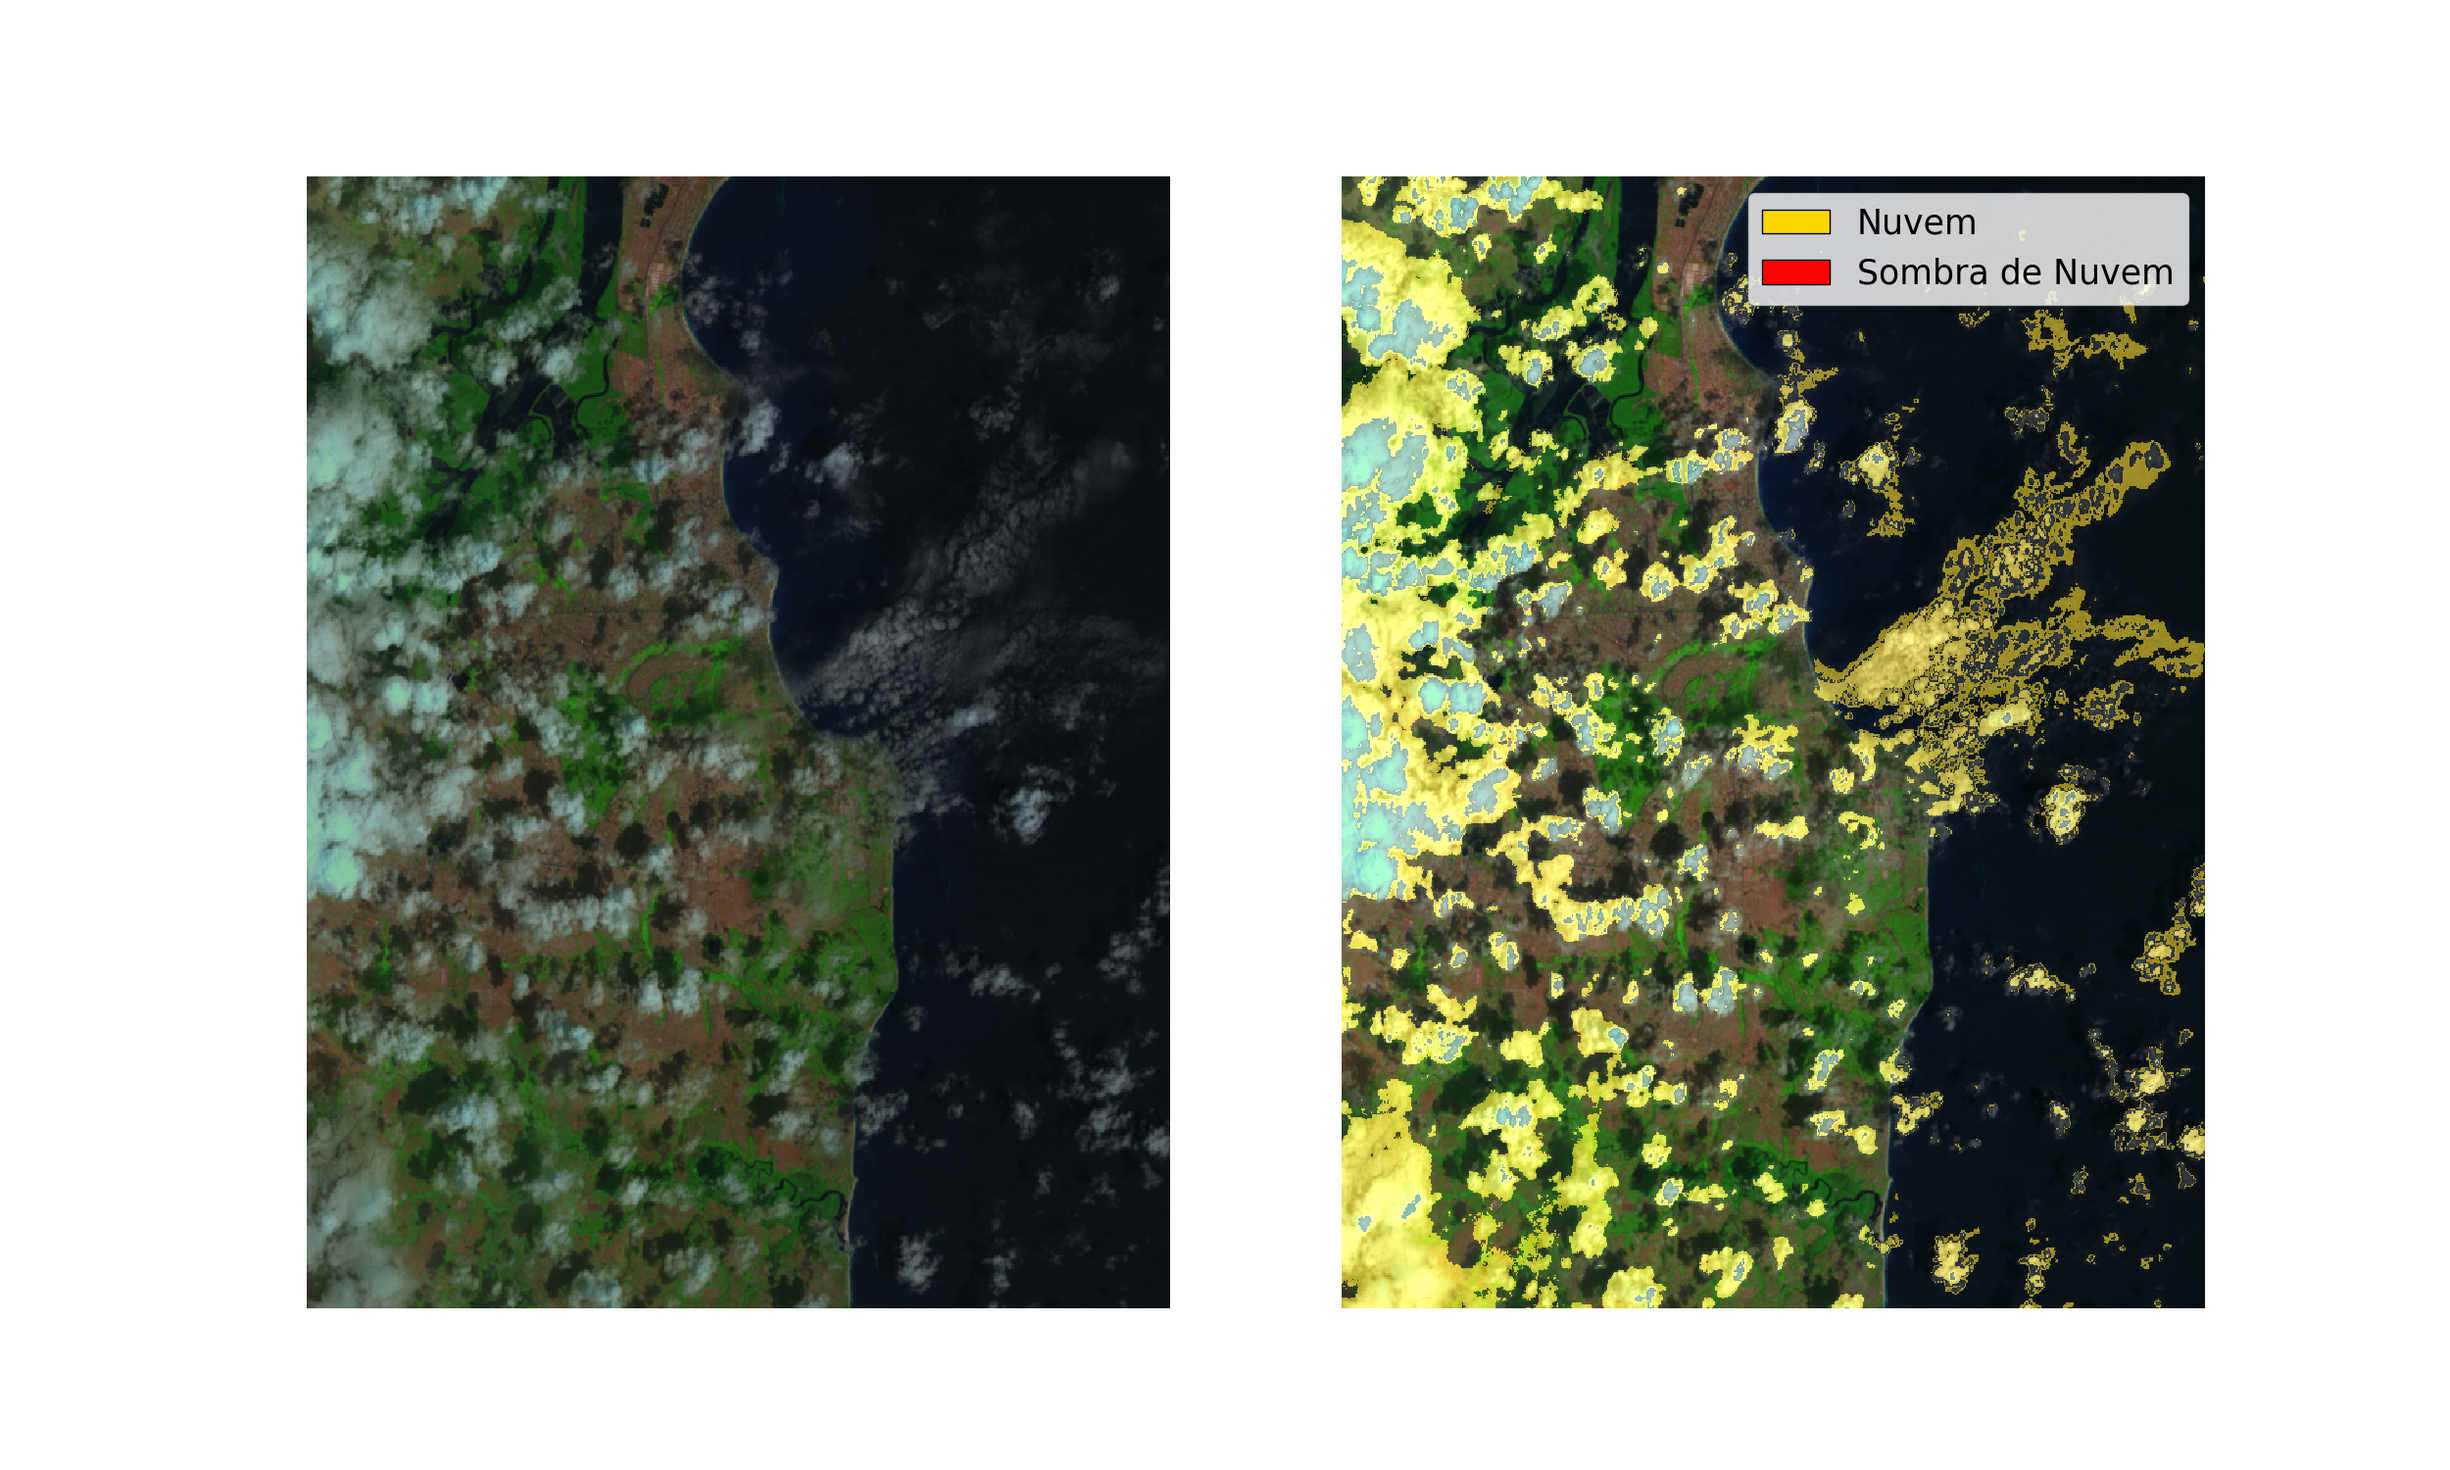
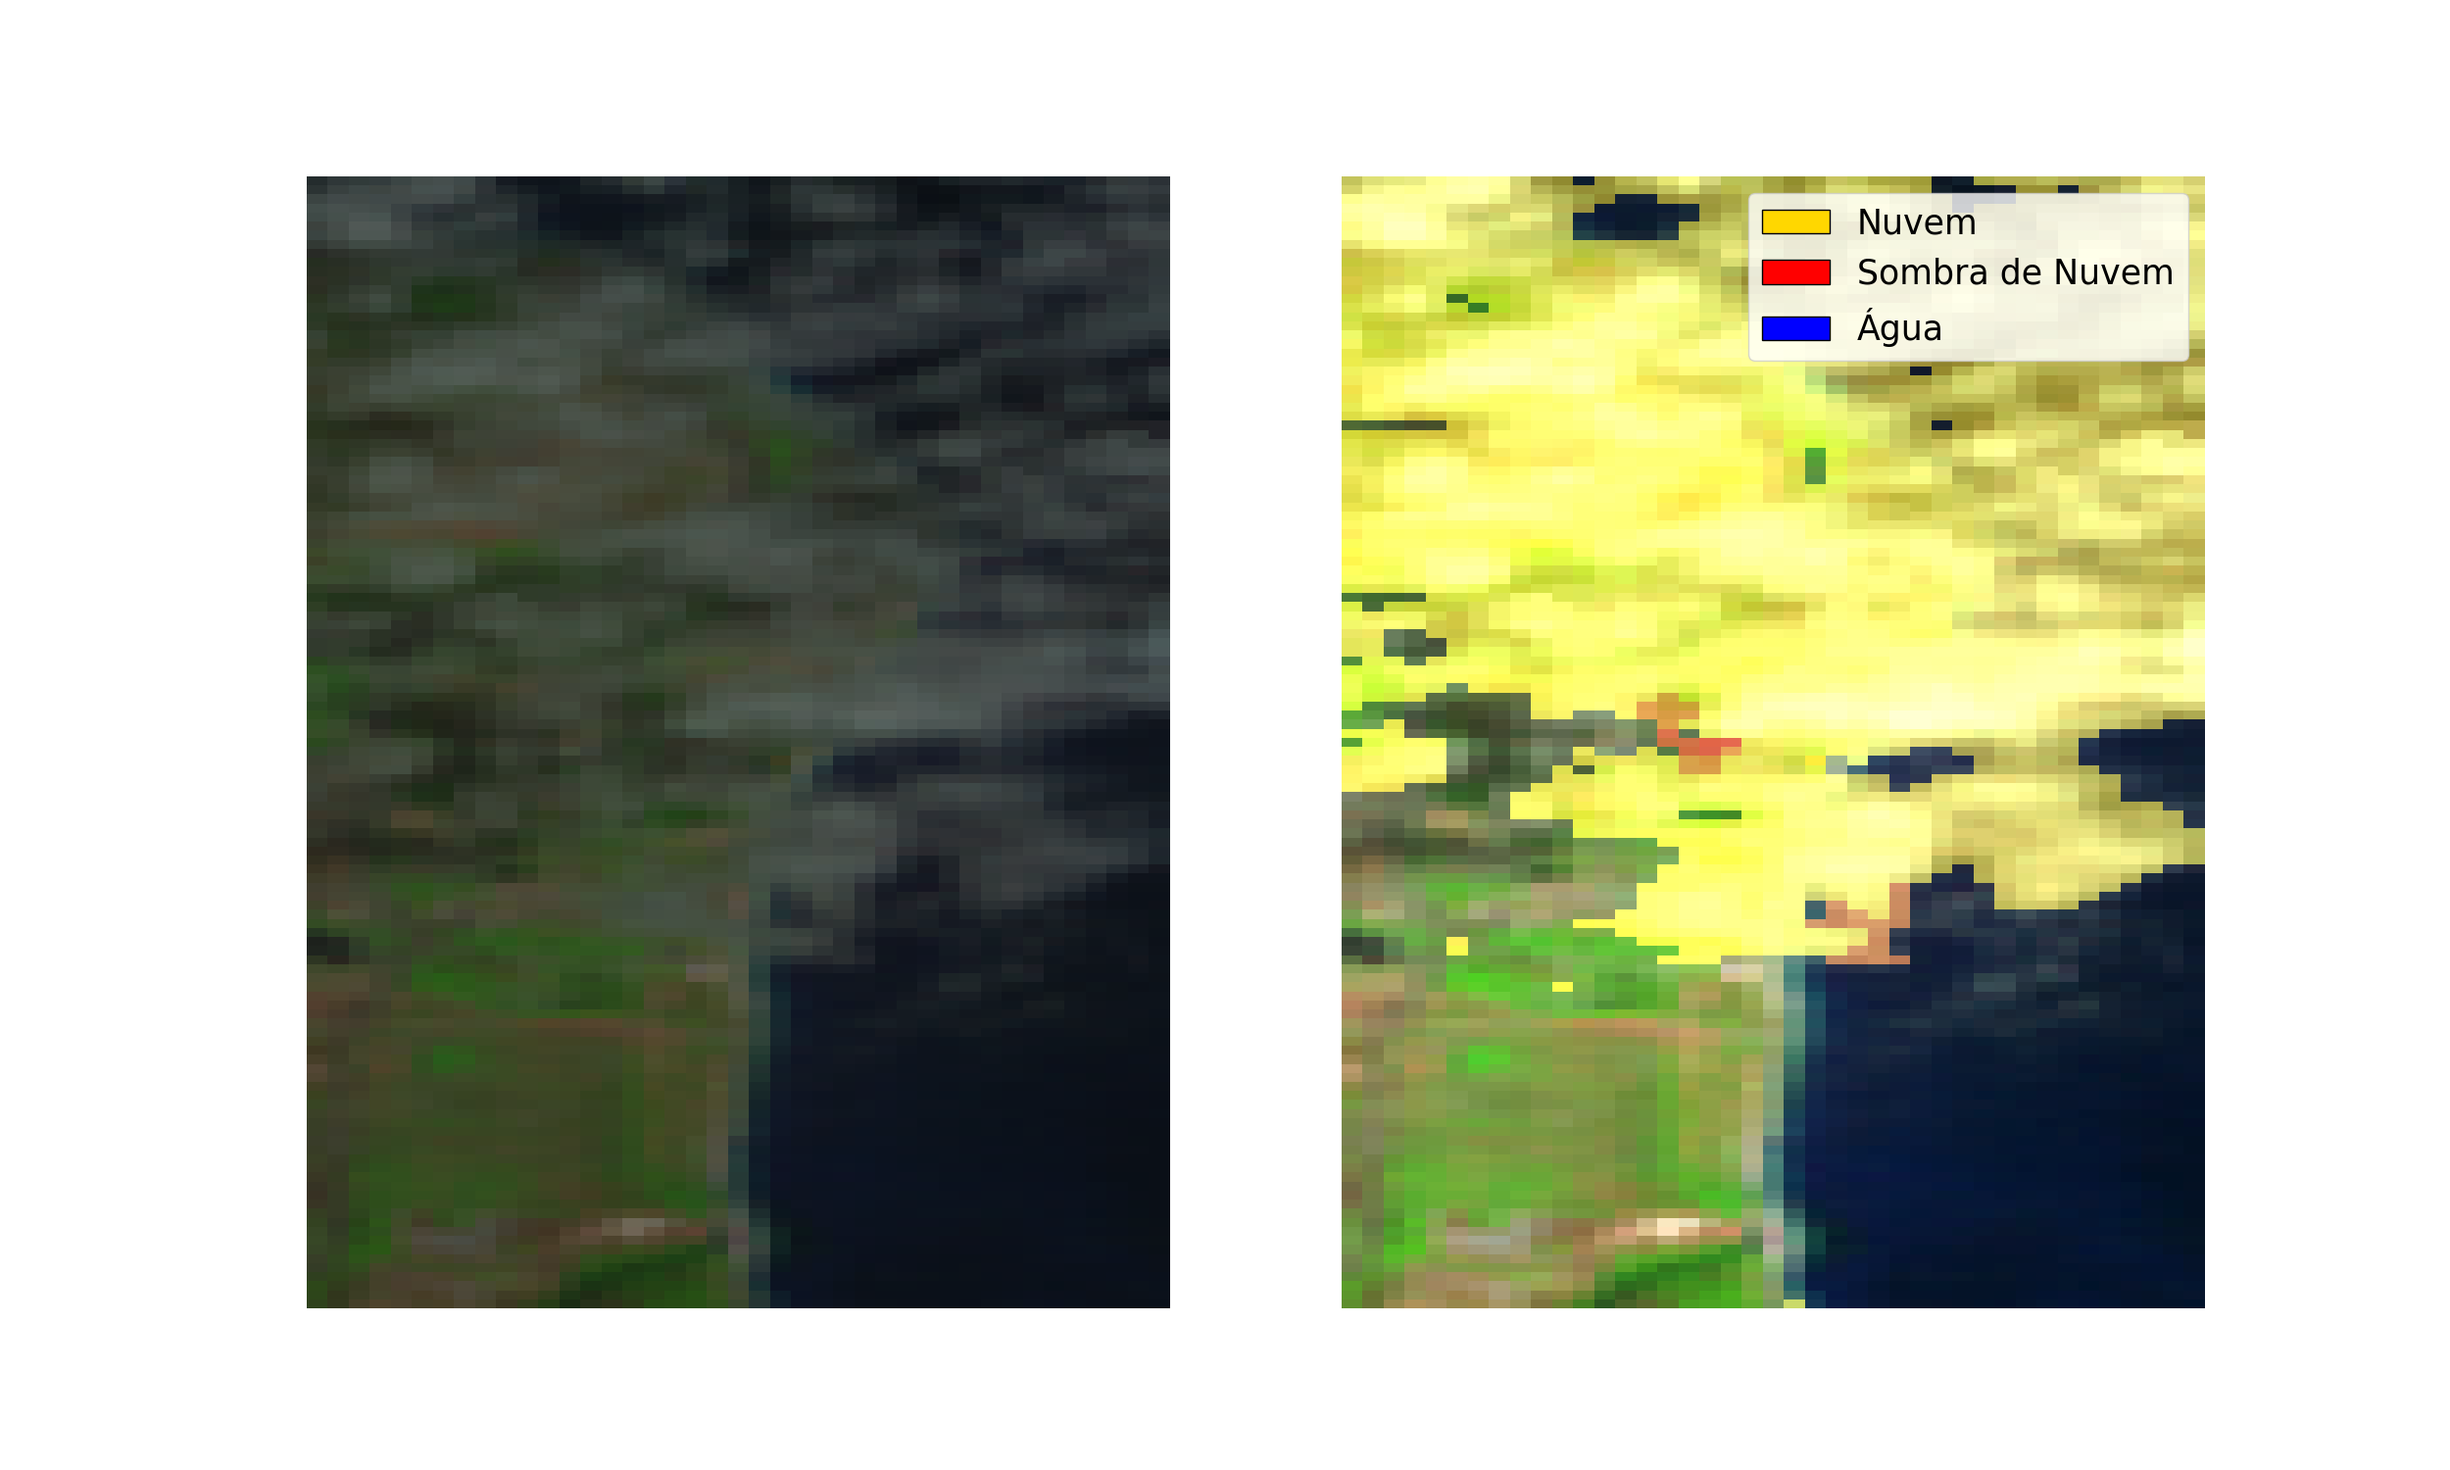
Adjust thresholds

diff --git a/main.py b/main.py
@@ -471,7 +471,7 @@ class Fmask:
         flood_fill_b4 = self.flood_fill_transformation(b4)        
         # PCSL(Potential Cloud Shadow Layer) test
 
-        return (flood_fill_b4 - b4 > - 0.18) & np.logical_not(water_test)
+        return (flood_fill_b4 - b4 > -0.22) & np.logical_not(water_test)
         # fig = plt.figure(figsize=(25, 15))
         # plt.imshow(((flood_fill_b4 - b4) < 50) & np.logical_not(water_test), cmap='gray')
         # plt.title("Flood fill")
@@ -534,10 +534,8 @@ class Fmask:
     def separar_componentes(self, mask):
         """
         Separa uma máscara binária em várias máscaras, cada uma contendo um componente conectado.
-
         Args:
         - mask (np.ndarray): Máscara binária de entrada.
-
         Returns:
         - list of np.ndarray: Lista de máscaras binárias, cada uma contendo um componente conectado.
         """
@@ -547,38 +545,30 @@ class Fmask:
         for i in range(1, num_features + 1):
             componente_mask = (labeled_mask == i).astype(np.uint8)
             masks_individuais.append(componente_mask)
-            # plt.imshow(componente_mask)
-            # plt.show()
 
         return masks_individuais
 
-    def calcular_direcao_sombra(self, sza, saa, vza, vaa):
+    def calcular_direcao_sombra(self, sza, saa):
         """
-        Calcula a direção da sombra para cada pixel.
-
+        Calcula a direção da sombra com base nos ângulos solares.
         Args:
         - sza (np.ndarray): Mapa do ângulo zenital do sol em radianos.
         - saa (np.ndarray): Mapa do ângulo azimutal do sol em radianos.
-        - vza (np.ndarray): Mapa do ângulo zenital de visualização em radianos.
-        - vaa (np.ndarray): Mapa do ângulo azimutal de visualização em radianos.
-
         Returns:
         - np.ndarray: Matriz de direções da sombra com shape (altura, largura, 2).
         """
-        direcao_x = np.tan(vza) * np.sin(vaa - saa)
-        direcao_y = np.tan(vza) * np.cos(vaa - saa)
+        direcao_x = -np.sin(saa)
+        direcao_y = -np.cos(saa)
         return np.stack([direcao_x, direcao_y], axis=-1)
 
     def projetar_sombra(self, nuvem, direcao_sombra, distancia_sombra, shape):
         """
         Projeta a sombra da nuvem na imagem.
-
         Args:
         - nuvem (np.ndarray): Máscara binária da nuvem.
         - direcao_sombra (np.ndarray): Matriz de direções da sombra com shape (altura, largura, 2).
         - distancia_sombra (float): Distância da sombra em pixels.
         - shape (tuple): Forma da imagem (altura, largura).
-
         Returns:
         - np.ndarray: Máscara binária da sombra projetada.
         """
@@ -594,32 +584,40 @@ class Fmask:
             if 0 <= y_proj < shape[0] and 0 <= x_proj < shape[1]:
                 projecao_sombra[y_proj, x_proj] = 1
 
-        # plt.imshow(projecao_sombra)
-        # plt.show()
         return projecao_sombra
 
-    def encontrar_correspondencia_intervalo_altura(self, clouds, cloud_shadows, vza_map, vaa_map, saa_map, sza_map, h_cloud_base, h_cloud_top, shape, num_passos=10):
+    def calcular_similaridade(self, projecao_sombra, sombra_real):
+        """
+        Calcula a similaridade entre a projeção da sombra e a sombra real.
+        Args:
+        - projecao_sombra (np.ndarray): Máscara binária da sombra projetada.
+        - sombra_real (np.ndarray): Máscara binária da sombra real.
+        Returns:
+        - float: Similaridade entre a projeção da sombra e a sombra real.
+        """
+        interseccao = np.sum(projecao_sombra & sombra_real)
+        area_projecao = np.sum(projecao_sombra)
+        if area_projecao == 0:
+            return 0
+        return interseccao / area_projecao
+
+    def encontrar_correspondencia_intervalo_altura(self, clouds, cloud_shadows, saa_map, sza_map, h_cloud_base, h_cloud_top, shape, num_passos=10, limiar_similaridade=0.2):
         """
         Encontra a correspondência de sombras de nuvens para um intervalo de alturas.
-
         Args:
         - clouds (list of np.ndarray): Lista de máscaras binárias de nuvens.
         - cloud_shadows (list of np.ndarray): Lista de máscaras binárias de sombras de nuvens.
-        - vza_map (np.ndarray): Mapa do ângulo zenital de visualização.
-        - vaa_map (np.ndarray): Mapa do ângulo azimutal de visualização.
-        - saa_map (np.ndarray): Mapa do ângulo azimutal do sol.
-        - sza_map (np.ndarray): Mapa do ângulo zenital do sol.
+        - saa_map (np.ndarray): Mapa do ângulo azimutal do sol em radianos.
+        - sza_map (np.ndarray): Mapa do ângulo zenital do sol em radianos.
         - h_cloud_base (float): Altura mínima da nuvem em metros.
         - h_cloud_top (float): Altura máxima da nuvem em metros.
         - shape (tuple): Forma das imagens de entrada (altura, largura).
         - num_passos (int): Número de passos para discretizar o intervalo de alturas.
-
+        - limiar_similaridade (float): Limiar de similaridade para correspondência de sombra.
         Returns:
         - np.ndarray: Máscara binária das sombras correspondentes.
         """
         # Converter ângulos para radianos
-        vza_map = np.radians(vza_map)
-        vaa_map = np.radians(vaa_map)
         saa_map = np.radians(saa_map)
         sza_map = np.radians(sza_map)
 
@@ -629,19 +627,41 @@ class Fmask:
         # Alturas para considerar no intervalo
         alturas = np.linspace(h_cloud_base, h_cloud_top, num=num_passos)
 
-        direcao_sombra = self.calcular_direcao_sombra(sza_map, saa_map, vza_map, vaa_map)
+        direcao_sombra = self.calcular_direcao_sombra(sza_map, saa_map)
 
         for nuvem in clouds:
+            melhor_similaridade = 0
+            melhor_sombra = None
+
             for altura in alturas:
+                print(altura)
                 distancia_sombra = altura * np.tan(sza_map.mean())  # Aproximação usando o ângulo zenital do sol médio
                 projecao_sombra = self.projetar_sombra(nuvem, direcao_sombra, distancia_sombra, shape)
 
+                # plt.figure()
+                # plt.imshow(projecao_sombra)
+                # plt.show()
+                if np.max(projecao_sombra) == 0:
+                    continue
+
+
                 for sombra in cloud_shadows:
-                    interseccao = np.sum(projecao_sombra & sombra)
+                    similaridade = self.calcular_similaridade(projecao_sombra, sombra)
+                    if similaridade == 0:
+                        continue
 
-                    if interseccao > 0:
-                        sombras_correspondentes = np.logical_or(sombras_correspondentes, sombra).astype(np.uint8)
+                    if similaridade > melhor_similaridade:
+                        melhor_similaridade = similaridade
+                        melhor_sombra = sombra
 
+                # print("best: ", melhor_similaridade, "limiar: ", limiar_similaridade)
+                if melhor_similaridade >= limiar_similaridade:
+                    # print('add')
+                    sombras_correspondentes = np.logical_or(sombras_correspondentes, melhor_sombra).astype(np.uint8)
+                    # plt.figure()
+                    # plt.imshow(sombras_correspondentes)
+                    # plt.show()
+                # print("")
         return sombras_correspondentes
 
     def create_fmask(self, tif_file: str) -> np.ndarray:
@@ -721,19 +741,17 @@ class Fmask:
         shape = B1.shape
 
         # Encontrar correspondências e gerar máscaras finais
-        # shadow_mask = self.encontrar_correspondencia_intervalo_altura(
-        #     clouds=cloud_masks_individuais,
-        #     cloud_shadows=shadow_masks_individuais,
-        #     vza_map=vza_band,
-        #     vaa_map=vaa_band,
-        #     saa_map=saa_band,
-        #     sza_map=sza_band,
-        #     # sun_elevation=metadata['properties']['SUN_ELEVATION'],
-        #     # sun_azimuth=metadata['properties']['SUN_AZIMUTH'],
-        #     h_cloud_base=altura_base,
-        #     h_cloud_top=altura_top,
-        #     shape=shape,
-        # )
+        shadow_mask = self.encontrar_correspondencia_intervalo_altura(
+            clouds=cloud_masks_individuais,
+            cloud_shadows=shadow_masks_individuais,
+            saa_map=saa_band,
+            sza_map=sza_band,
+            # sun_elevation=metadata['properties']['SUN_ELEVATION'],
+            # sun_azimuth=metadata['properties']['SUN_AZIMUTH'],
+            h_cloud_base=altura_base,
+            h_cloud_top=altura_top,
+            shape=shape,
+        )
 
         water_mask = np.logical_and(ndwi, water_test)
         # return ndwi, cloud_mask, shadow_mask
@@ -757,7 +775,8 @@ if __name__ == "__main__":
 
     save_dir = "./results/"
 
-    # inputs = ['./Seixas/TOA/2004/seixas_20040313.tif']
+    # inputs = ['./Seixas_big_picture/TOA/2004/seixas_20040414.tif']
+    # inputs = ['./Seixas/TOA/2004/seixas_20040905.tif']
     # inputs = ['seixas_20041124.tif']
     # save_dir = "./"
 
